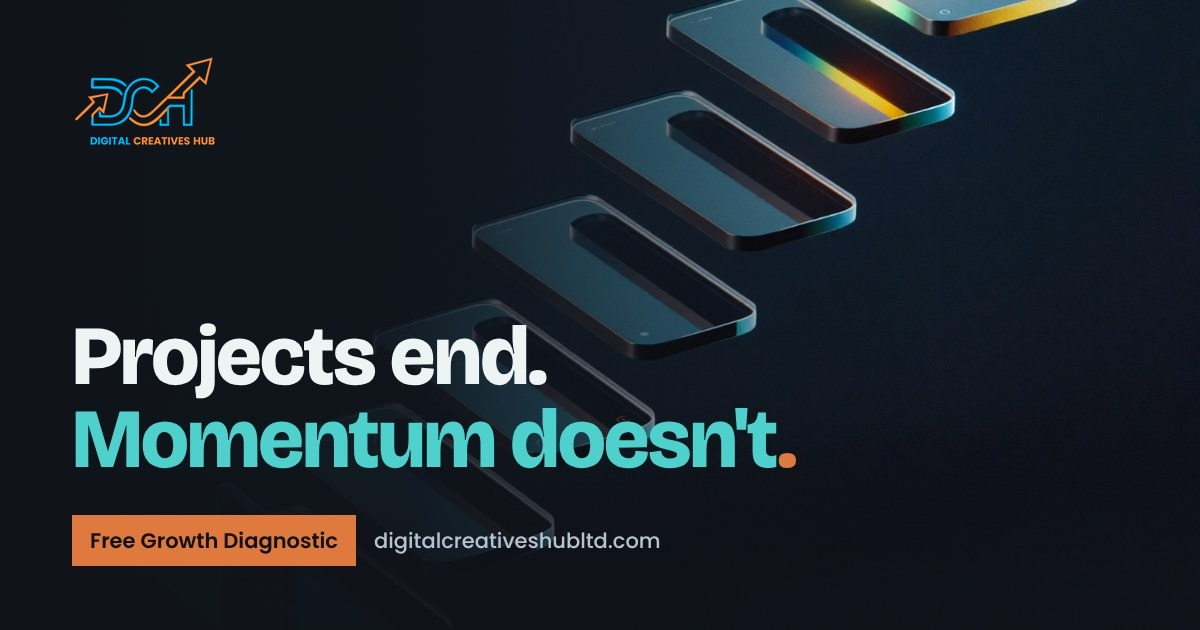
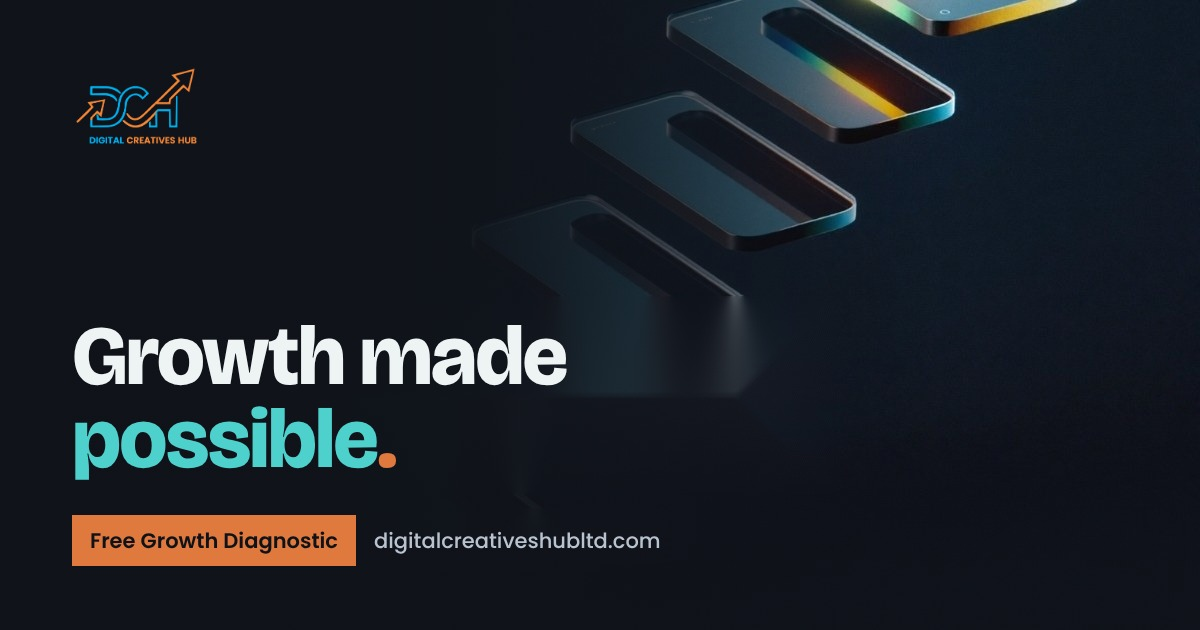
Set the social image headline to Growth made possible
Replace the old headline in public/og-image.jpg with "Growth made
possible.", with "possible" in the brand colour, to match the hero. The
new headline is also set in scripts/site-images/og-compose.html so future
renders match. The logo, CTA and background are unchanged.

Claude-Session: https://claude.ai/code/session_014gCNHVTopBZv2ncXg6Kee7

diff --git a/scripts/site-images/og-compose.html b/scripts/site-images/og-compose.html
@@ -40,7 +40,7 @@
   <div class="shade"></div>
   <div class="copy">
     <img class="logo" src="../../src/assets/dch-logo-primary.png" alt="">
-    <h1><span class="end">Projects end.</span><span class="on">Momentum doesn't<b>.</b></span></h1>
+    <h1><span class="end">Growth made</span><span class="on">possible<b>.</b></span></h1>
     <div class="foot"><span class="chip">Free Growth Diagnostic</span><span class="url">digitalcreativeshubltd.com</span></div>
   </div>
 </div>
